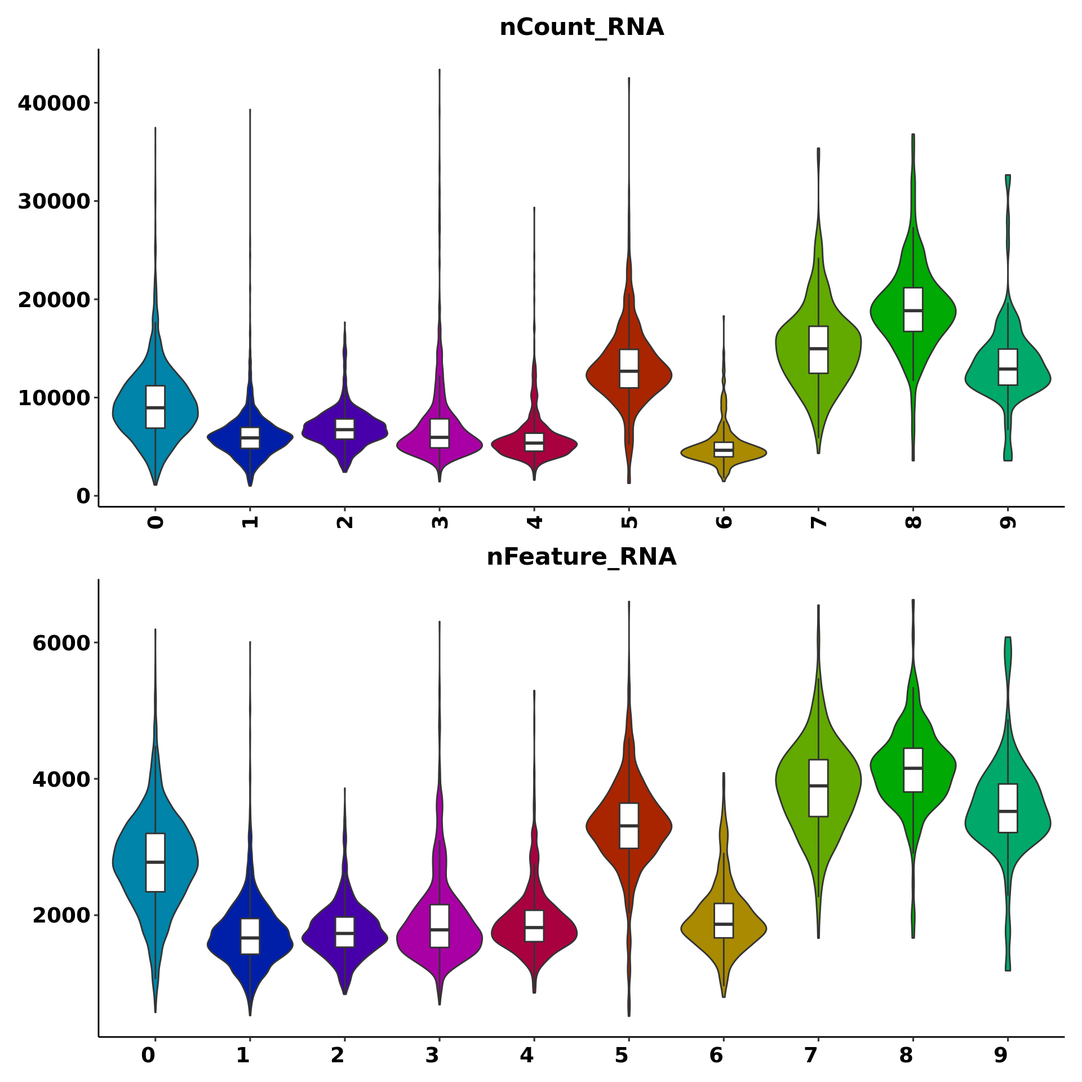
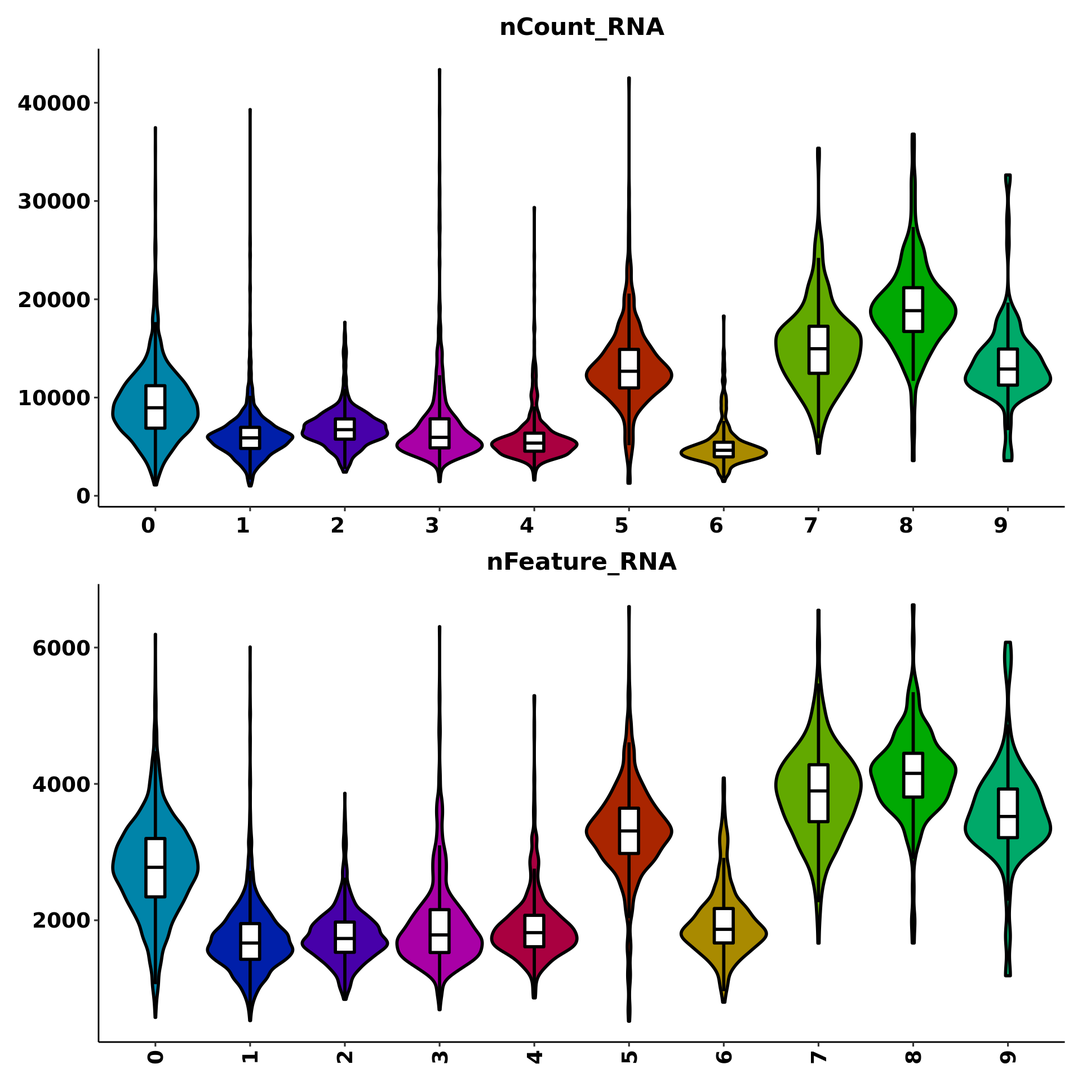
Additions to Violin plot chapter.

diff --git a/docs/bar-plots.html b/docs/bar-plots.html
@@ -69,7 +69,7 @@
 <h2>
 <span class="header-section-number">7.1</span> Basic usage<a class="anchor" aria-label="anchor" href="#basic-usage-5"><i class="fas fa-link"></i></a>
 </h2>
-<div class="sourceCode" id="cb76"><pre class="downlit sourceCode r">
+<div class="sourceCode" id="cb78"><pre class="downlit sourceCode r">
 <code class="sourceCode R"><span class="va">p1</span> <span class="op">&lt;-</span> <span class="fu">SCpubr</span><span class="fu">::</span><span class="fu"><a href="https://rdrr.io/pkg/SCpubr/man/do_BarPlot.html">do_BarPlot</a></span><span class="op">(</span>sample <span class="op">=</span> <span class="va">sample</span>, 
                          features <span class="op">=</span> <span class="st">"seurat_clusters"</span>, 
                          legend <span class="op">=</span> <span class="cn">F</span>, 
@@ -92,7 +92,7 @@ Figure 1.1: SCpubr Bar plots, plotting single variables
 <li>The feature provided need to have a clear and rather small number of groups. A good estimate on how to assess this is by querying the feature with <code>table</code>, as in <code>table(sample@meta.data[, feature])</code>.</li>
 </ul>
 <p>Focusing on the last point, this would happen if we were to choose a feature with a high number of unique values:</p>
-<div class="sourceCode" id="cb77"><pre class="downlit sourceCode r">
+<div class="sourceCode" id="cb79"><pre class="downlit sourceCode r">
 <code class="sourceCode R">
 <span class="va">p</span> <span class="op">&lt;-</span> <span class="fu">SCpubr</span><span class="fu">::</span><span class="fu"><a href="https://rdrr.io/pkg/SCpubr/man/do_BarPlot.html">do_BarPlot</a></span><span class="op">(</span>sample <span class="op">=</span> <span class="va">sample</span>, 
                         features <span class="op">=</span> <span class="st">"nCount_RNA"</span>, 
@@ -113,7 +113,7 @@ Figure 1.2: SCpubr Bar plots, choosing the wrong variable
 <span class="header-section-number">7.2</span> Grouping by a second variable<a class="anchor" aria-label="anchor" href="#grouping-by-a-second-variable"><i class="fas fa-link"></i></a>
 </h2>
 <p>Let’s expand on the previous example on the number of cells per cluster. What if we were interested not only on that, but we would like to profile <strong>how many cells from each cluster are present in each of the unique samples present in the Seurat object</strong>? For this, we need to provide <code><a href="https://rdrr.io/pkg/SCpubr/man/do_BarPlot.html">SCpubr::do_BarPlot()</a></code> with a second parameter, <code>group.by</code>, that tackles how we want the feature to be grouped:</p>
-<div class="sourceCode" id="cb78"><pre class="downlit sourceCode r">
+<div class="sourceCode" id="cb80"><pre class="downlit sourceCode r">
 <code class="sourceCode R"><span class="co"># We only have one value in orig.ident. Let's modify it so that it resembles a multi-sample Seurat object.</span>
 <span class="va">sample</span><span class="op">$</span><span class="va">modified_orig.ident</span> <span class="op">&lt;-</span> <span class="fu"><a href="https://rdrr.io/r/base/sample.html">sample</a></span><span class="op">(</span>x <span class="op">=</span> <span class="fu"><a href="https://rdrr.io/r/base/c.html">c</a></span><span class="op">(</span><span class="st">"Sample_A"</span>, <span class="st">"Sample_B"</span>, <span class="st">"Sample_C"</span><span class="op">)</span>, 
                                      size <span class="op">=</span> <span class="fu"><a href="https://rdrr.io/r/base/nrow.html">ncol</a></span><span class="op">(</span><span class="va">sample</span><span class="op">)</span>, 
@@ -149,7 +149,7 @@ Figure 1.3: SCpubr Bar plots, introducing a variable to group values by
 <code>group.by</code>: Secondary variable on which the bars generated by <code>feature</code> can be further subdivided.</li>
 </ul>
 <p>Another interesting parameter introduced in the last example is <code>position</code>. Position can be either <code>stack</code> or <code>fill</code>. The difference between them is that <code>position = "stack"</code> will yield the total number of cells for each of the unique values in <code>feature</code>, while <code>position = "fill"</code> will bring all bars to the same height and will split each bar into the proportions within each bar of the different groups (only one if <code>group.by = NULL</code> and as many groups if <code>group.by</code> is used). Therefore, it becomes highly recommended to use <code>position = "stack"</code> when <code>group.by</code> is not used and <code>position = "fill"</code> otherwise. This is also warned by the package. If you want to silence the warnings, use <code>verbose = FALSE</code>.</p>
-<div class="sourceCode" id="cb79"><pre class="downlit sourceCode r">
+<div class="sourceCode" id="cb81"><pre class="downlit sourceCode r">
 <code class="sourceCode R"><span class="co"># We are going to use the previously generated sample assignment.</span>
 
 <span class="va">p1</span> <span class="op">&lt;-</span> <span class="fu">SCpubr</span><span class="fu">::</span><span class="fu"><a href="https://rdrr.io/pkg/SCpubr/man/do_BarPlot.html">do_BarPlot</a></span><span class="op">(</span><span class="va">sample</span>, 
@@ -195,7 +195,7 @@ Figure 1.4: SCpubr Bar plots, difference between position
 <span class="header-section-number">7.3</span> Reordering columns based on a single entity<a class="anchor" aria-label="anchor" href="#reordering-columns-based-on-a-single-entity"><i class="fas fa-link"></i></a>
 </h2>
 <p>One advanced use of bar plots, but a very useful one is to reorder the columns based on a single entity in a descending order. This works only when <code>group.by</code> is set up and best when <code>position = "fill"</code>. For instance, imagine the scenario in which we are heavily interested in cluster 1, and want to reorder the columns based on it. This is achieved by providing <code>order.by</code> parameter to <code><a href="https://rdrr.io/pkg/SCpubr/man/do_BarPlot.html">SCpubr::do_BarPlot()</a></code>. The value in <code>order.by</code> has to be necessary one of the unique values in <code>group.by</code>. Therefore, as a best practice, one would want to generate the bar plots without using <code>order.by</code> and then decide. Let’s also, for the sake of this example, modify the proportions of cluster 1 so that it becomes really evident. This is how it looks:</p>
-<div class="sourceCode" id="cb80"><pre class="downlit sourceCode r">
+<div class="sourceCode" id="cb82"><pre class="downlit sourceCode r">
 <code class="sourceCode R"><span class="co"># Modify proportions. </span>
 <span class="va">sample</span><span class="op">$</span><span class="va">modified_seurat_clusters</span> <span class="op">&lt;-</span> <span class="fu"><a href="https://rdrr.io/r/base/character.html">as.character</a></span><span class="op">(</span><span class="va">sample</span><span class="op">$</span><span class="va">seurat_clusters</span><span class="op">)</span>
 <span class="va">sample</span><span class="op">$</span><span class="va">modified_seurat_clusters</span><span class="op">[</span><span class="va">sample</span><span class="op">$</span><span class="va">modified_orig.ident</span> <span class="op">==</span> <span class="st">"Sample_A"</span> <span class="op">&amp;</span> <span class="va">sample</span><span class="op">$</span><span class="va">modified_seurat_clusters</span> <span class="op"><a href="https://rdrr.io/r/base/match.html">%in%</a></span> <span class="fu"><a href="https://rdrr.io/r/base/c.html">c</a></span><span class="op">(</span><span class="st">"0"</span>, <span class="st">"2"</span>, <span class="st">"3"</span>, <span class="st">"4"</span>, <span class="st">"5"</span>, <span class="st">"6"</span>, <span class="st">"7"</span><span class="op">)</span><span class="op">]</span> <span class="op">&lt;-</span> <span class="st">"1"</span>
@@ -230,7 +230,7 @@ Figure 1.5: SCpubr Bar plots, reordering the colums using order.by
 <span class="header-section-number">7.4</span> Adding the exact values to the bars<a class="anchor" aria-label="anchor" href="#adding-the-exact-values-to-the-bars"><i class="fas fa-link"></i></a>
 </h2>
 <p>Sometimes, we are interested not only in displaying the bars but also reporting the exact number for each bar. This can be achieved by using <code>add.summary_labels = TRUE</code>:</p>
-<div class="sourceCode" id="cb81"><pre class="downlit sourceCode r">
+<div class="sourceCode" id="cb83"><pre class="downlit sourceCode r">
 <code class="sourceCode R">
 <span class="va">p1</span> <span class="op">&lt;-</span> <span class="fu">SCpubr</span><span class="fu">::</span><span class="fu"><a href="https://rdrr.io/pkg/SCpubr/man/do_BarPlot.html">do_BarPlot</a></span><span class="op">(</span>sample <span class="op">=</span> <span class="va">sample</span>, 
                          features <span class="op">=</span> <span class="st">"seurat_clusters"</span>, 
@@ -249,7 +249,7 @@ Figure 1.6: SCpubr, Adding labels to bars
 </p>
 </div>
 <p>The size of the labels can be adjusted by using <code>size.labels</code>. The default value is 3. This value changes the size quite drastically. Modification by low ammounts is reccomended.</p>
-<div class="sourceCode" id="cb82"><pre class="downlit sourceCode r">
+<div class="sourceCode" id="cb84"><pre class="downlit sourceCode r">
 <code class="sourceCode R">
 <span class="va">p1</span> <span class="op">&lt;-</span> <span class="fu">SCpubr</span><span class="fu">::</span><span class="fu"><a href="https://rdrr.io/pkg/SCpubr/man/do_BarPlot.html">do_BarPlot</a></span><span class="op">(</span>sample <span class="op">=</span> <span class="va">sample</span>, 
                          features <span class="op">=</span> <span class="st">"seurat_clusters"</span>, 
@@ -270,7 +270,7 @@ Figure 1.7: SCpubr, Modifying the size of the labels in the bars
 </p>
 </div>
 <p>When using in combination with <code>group.by</code>, it also adds the value on top of each bar:</p>
-<div class="sourceCode" id="cb83"><pre class="downlit sourceCode r">
+<div class="sourceCode" id="cb85"><pre class="downlit sourceCode r">
 <code class="sourceCode R"><span class="va">p1</span> <span class="op">&lt;-</span> <span class="fu">SCpubr</span><span class="fu">::</span><span class="fu"><a href="https://rdrr.io/pkg/SCpubr/man/do_BarPlot.html">do_BarPlot</a></span><span class="op">(</span>sample <span class="op">=</span> <span class="va">sample</span>, 
                          features <span class="op">=</span> <span class="st">"seurat_clusters"</span>,
                          group.by <span class="op">=</span> <span class="st">"modified_orig.ident"</span>,
@@ -290,7 +290,7 @@ Figure 1.8: SCpubr, Adding labels to bars when grouped by another variable
 </p>
 </div>
 <p>If we are also interested in adding labels to each of the bar sugroups, we can do so by using <code>add.subgroup_labels = TRUE</code>:</p>
-<div class="sourceCode" id="cb84"><pre class="downlit sourceCode r">
+<div class="sourceCode" id="cb86"><pre class="downlit sourceCode r">
 <code class="sourceCode R"><span class="va">p1</span> <span class="op">&lt;-</span> <span class="fu">SCpubr</span><span class="fu">::</span><span class="fu"><a href="https://rdrr.io/pkg/SCpubr/man/do_BarPlot.html">do_BarPlot</a></span><span class="op">(</span>sample <span class="op">=</span> <span class="va">sample</span>, 
                          features <span class="op">=</span> <span class="st">"seurat_clusters"</span>,
                          group.by <span class="op">=</span> <span class="st">"modified_orig.ident"</span>,
@@ -312,7 +312,7 @@ Figure 1.9: SCpubr, Adding labels to bars and subgroups when grouped by another 
 </p>
 </div>
 <p>As can be observed, this type of labelling is very situational and highly depends on the overall structure of the bars and whether it is feasible to plot that many labels. In order to ease this cluttering, one can pass <code>repel.subroup_labels = TRUE</code> to avoid overlapping of the group labels (the colored ones inside the bars).</p>
-<div class="sourceCode" id="cb85"><pre class="downlit sourceCode r">
+<div class="sourceCode" id="cb87"><pre class="downlit sourceCode r">
 <code class="sourceCode R"><span class="va">p1</span> <span class="op">&lt;-</span> <span class="fu">SCpubr</span><span class="fu">::</span><span class="fu"><a href="https://rdrr.io/pkg/SCpubr/man/do_BarPlot.html">do_BarPlot</a></span><span class="op">(</span>sample <span class="op">=</span> <span class="va">sample</span>, 
                          features <span class="op">=</span> <span class="st">"seurat_clusters"</span>,
                          group.by <span class="op">=</span> <span class="st">"modified_orig.ident"</span>,
@@ -336,7 +336,7 @@ Figure 1.10: SCpubr, Relocating group labels
 </p>
 </div>
 <p>If we also want the summary labels (the ones in black at the top of each bar) to relocate, we can use <code>repel.summary_labels = TRUE</code>. This combination of parameters were designed to grant the user freedom to keep either of the two groups of labels centered and to make either group appear or disappear (as each bar plot will have a different scenario and sometimes it might be a viable option).</p>
-<div class="sourceCode" id="cb86"><pre class="downlit sourceCode r">
+<div class="sourceCode" id="cb88"><pre class="downlit sourceCode r">
 <code class="sourceCode R"><span class="va">p1</span> <span class="op">&lt;-</span> <span class="fu">SCpubr</span><span class="fu">::</span><span class="fu"><a href="https://rdrr.io/pkg/SCpubr/man/do_BarPlot.html">do_BarPlot</a></span><span class="op">(</span>sample <span class="op">=</span> <span class="va">sample</span>, 
                          features <span class="op">=</span> <span class="st">"seurat_clusters"</span>,
                          group.by <span class="op">=</span> <span class="st">"modified_orig.ident"</span>,
@@ -368,7 +368,7 @@ Figure 1.11: SCpubr, Adding relocating all bars
 <span class="header-section-number">7.5</span> Adding custom color scales<a class="anchor" aria-label="anchor" href="#adding-custom-color-scales"><i class="fas fa-link"></i></a>
 </h2>
 <p>If necessary, the colors of the plots can be easily changed using the <code>colors.use</code> parameter, which requires a <strong>named vector</strong> containing the HEX codes of the colors to show and the names of the unique values that are being used as color groups. Here is one example:</p>
-<div class="sourceCode" id="cb87"><pre class="downlit sourceCode r">
+<div class="sourceCode" id="cb89"><pre class="downlit sourceCode r">
 <code class="sourceCode R"><span class="co"># Create a color scale for the unique values in seurat clusters.</span>
 <span class="va">colors</span> <span class="op">&lt;-</span> <span class="fu"><a href="https://rdrr.io/r/base/c.html">c</a></span><span class="op">(</span><span class="st">"0"</span> <span class="op">=</span> <span class="st">"#001219"</span>,
             <span class="st">"1"</span> <span class="op">=</span> <span class="st">"#005f73"</span>,
@@ -443,7 +443,7 @@ Figure 1.12: SCpubr, modifying colors
 <!-- Moved the footer outside of the body to make it span all page width. --><footer class="bg-primary text-light mt-5"><div class="container"><div class="row">
 
   <div class="col-12 col-md-6 mt-3">
-    <p class="text-center">Written by <strong>Enrique Blanco Carmona</strong> on 08 March, 2022.</p>
+    <p class="text-center">Written by <strong>Enrique Blanco Carmona</strong> on 22 March, 2022.</p>
   </div>
 
   <div class="col-12 col-md-6 mt-3">

diff --git a/docs/dot-plots.html b/docs/dot-plots.html
@@ -69,7 +69,7 @@
 <h2>
 <span class="header-section-number">6.1</span> Basic usage<a class="anchor" aria-label="anchor" href="#basic-usage-4"><i class="fas fa-link"></i></a>
 </h2>
-<div class="sourceCode" id="cb69"><pre class="downlit sourceCode r">
+<div class="sourceCode" id="cb71"><pre class="downlit sourceCode r">
 <code class="sourceCode R"><span class="va">p1</span> <span class="op">&lt;-</span> <span class="fu">Seurat</span><span class="fu">::</span><span class="fu"><a href="https://satijalab.org/seurat/reference/DotPlot.html">DotPlot</a></span><span class="op">(</span><span class="va">sample</span>, 
                       features <span class="op">=</span> <span class="st">"CD14"</span><span class="op">)</span>
 <span class="va">p2</span> <span class="op">&lt;-</span> <span class="fu">Seurat</span><span class="fu">::</span><span class="fu"><a href="https://satijalab.org/seurat/reference/DotPlot.html">DotPlot</a></span><span class="op">(</span><span class="va">sample</span>, 
@@ -82,7 +82,7 @@ Figure 1.1: Seurat DotPlot
 </p>
 </div>
 <p>As can be seen, if we try to plot other type of variables, the resulting plot will not contain a color scale. <code><a href="https://rdrr.io/pkg/SCpubr/man/do_DimPlot.html">SCpubr::do_DimPlot()</a></code> focuses on enhancing the overall appearance of the plots. Implementation using other types of features is not currently supported. This is how it looks using <code><a href="https://rdrr.io/pkg/SCpubr/man/do_DimPlot.html">SCpubr::do_DimPlot()</a></code>:</p>
-<div class="sourceCode" id="cb70"><pre class="downlit sourceCode r">
+<div class="sourceCode" id="cb72"><pre class="downlit sourceCode r">
 <code class="sourceCode R"><span class="va">p1</span> <span class="op">&lt;-</span> <span class="fu">SCpubr</span><span class="fu">::</span><span class="fu"><a href="https://rdrr.io/pkg/SCpubr/man/do_DotPlot.html">do_DotPlot</a></span><span class="op">(</span>sample <span class="op">=</span> <span class="va">sample</span>, 
                          features <span class="op">=</span> <span class="st">"CD14"</span><span class="op">)</span>
 <span class="va">p2</span> <span class="op">&lt;-</span> <span class="fu">SCpubr</span><span class="fu">::</span><span class="fu"><a href="https://rdrr.io/pkg/SCpubr/man/do_DotPlot.html">do_DotPlot</a></span><span class="op">(</span>sample <span class="op">=</span> <span class="va">sample</span>, 
@@ -100,7 +100,7 @@ Figure 1.2: SCpubr DotPlot
 <span class="header-section-number">6.2</span> Querying multiple features at once<a class="anchor" aria-label="anchor" href="#querying-multiple-features-at-once"><i class="fas fa-link"></i></a>
 </h2>
 <p>The true power of this data visualization relies on querying multiple genes at once. Let’s query the ones described in this <a href="https://satijalab.org/seurat/articles/pbmc3k_tutorial.html#assigning-cell-type-identity-to-clusters-1">Seurat vignette</a>:</p>
-<div class="sourceCode" id="cb71"><pre class="downlit sourceCode r">
+<div class="sourceCode" id="cb73"><pre class="downlit sourceCode r">
 <code class="sourceCode R"><span class="va">genes</span> <span class="op">&lt;-</span> <span class="fu"><a href="https://rdrr.io/r/base/c.html">c</a></span><span class="op">(</span><span class="st">"IL7R"</span>, <span class="st">"CCR7"</span>, <span class="st">"CD14"</span>, <span class="st">"LYZ"</span>, 
            <span class="st">"S100A4"</span>, <span class="st">"MS4A1"</span>, <span class="st">"CD8A"</span>, <span class="st">"FCGR3A"</span>, 
            <span class="st">"MS4A7"</span>, <span class="st">"GNLY"</span>, <span class="st">"NKG7"</span>, <span class="st">"FCER1A"</span>, 
@@ -115,7 +115,7 @@ Figure 1.3: SCpubr DotPlot using multiple genes
 </p>
 </div>
 <p>Here, we can clearly distinguish which clusters are highly enriched in which given genes. This proves to be a very interesting way to query for cluster identities. It is highly dependent, though, on the accuracy of the selected genes for the queried dataset. If we actually provide the list of genes as a named list, we can facet the plot in the different list of genes provided:</p>
-<div class="sourceCode" id="cb72"><pre class="downlit sourceCode r">
+<div class="sourceCode" id="cb74"><pre class="downlit sourceCode r">
 <code class="sourceCode R"><span class="va">genes</span> <span class="op">&lt;-</span> <span class="fu"><a href="https://rdrr.io/r/base/list.html">list</a></span><span class="op">(</span><span class="st">"Naive CD4+ T"</span> <span class="op">=</span> <span class="fu"><a href="https://rdrr.io/r/base/c.html">c</a></span><span class="op">(</span><span class="st">"IL7R"</span>, <span class="st">"CCR7"</span><span class="op">)</span>,
               <span class="st">"CD14+ Mono"</span> <span class="op">=</span> <span class="fu"><a href="https://rdrr.io/r/base/c.html">c</a></span><span class="op">(</span><span class="st">"CD14"</span>, <span class="st">"LYZ"</span><span class="op">)</span>,
               <span class="st">"Memory CD4+"</span> <span class="op">=</span> <span class="fu"><a href="https://rdrr.io/r/base/c.html">c</a></span><span class="op">(</span><span class="st">"S100A4"</span><span class="op">)</span>,
@@ -140,7 +140,7 @@ Figure 1.4: SCpubr DotPlot using multiple genes
 <span class="header-section-number">6.3</span> Clustering the identities<a class="anchor" aria-label="anchor" href="#clustering-the-identities"><i class="fas fa-link"></i></a>
 </h2>
 <p>One really cool feature from <code><a href="https://satijalab.org/seurat/reference/DotPlot.html">Seurat::DotPlot()</a></code> is that it lets you cluster the identities in the Y axis depending on how similar they are between them across the values on the X axis. This is achieved by using <code>cluster.idents = TRUE</code>, parameter also implemented in <code><a href="https://rdrr.io/pkg/SCpubr/man/do_DotPlot.html">SCpubr::do_DotPlot()</a></code>:</p>
-<div class="sourceCode" id="cb73"><pre class="downlit sourceCode r">
+<div class="sourceCode" id="cb75"><pre class="downlit sourceCode r">
 <code class="sourceCode R"><span class="va">genes</span> <span class="op">&lt;-</span> <span class="fu"><a href="https://rdrr.io/r/base/list.html">list</a></span><span class="op">(</span><span class="st">"Naive CD4+ T"</span> <span class="op">=</span> <span class="fu"><a href="https://rdrr.io/r/base/c.html">c</a></span><span class="op">(</span><span class="st">"IL7R"</span>, <span class="st">"CCR7"</span><span class="op">)</span>,
               <span class="st">"CD14+ Mono"</span> <span class="op">=</span> <span class="fu"><a href="https://rdrr.io/r/base/c.html">c</a></span><span class="op">(</span><span class="st">"CD14"</span>, <span class="st">"LYZ"</span><span class="op">)</span>,
               <span class="st">"Memory CD4+"</span> <span class="op">=</span> <span class="fu"><a href="https://rdrr.io/r/base/c.html">c</a></span><span class="op">(</span><span class="st">"S100A4"</span><span class="op">)</span>,
@@ -170,7 +170,7 @@ Figure 1.5: SCpubr DotPlot using multiple genes and clustering the identities
 <span class="header-section-number">6.4</span> Inverting the axes<a class="anchor" aria-label="anchor" href="#inverting-the-axes"><i class="fas fa-link"></i></a>
 </h2>
 <p>In <code><a href="https://rdrr.io/pkg/SCpubr/man/do_DotPlot.html">SCpubr::do_DotPlot()</a></code>, we can also invert the axes, so that the groups are in the X axis and the genes in the Y axis. This is achieved by using <code>flip = TRUE</code>. Note, however, that this does not work when using a named list of genes as input, as it completely distort the way facets are computed. Given this, this combination of parameters is currently blocked by <code>SCpubr</code>.</p>
-<div class="sourceCode" id="cb74"><pre class="downlit sourceCode r">
+<div class="sourceCode" id="cb76"><pre class="downlit sourceCode r">
 <code class="sourceCode R"><span class="va">genes</span> <span class="op">&lt;-</span> <span class="fu"><a href="https://rdrr.io/r/base/c.html">c</a></span><span class="op">(</span><span class="st">"IL7R"</span>, <span class="st">"CCR7"</span>, <span class="st">"CD14"</span>, <span class="st">"LYZ"</span>, 
            <span class="st">"S100A4"</span>, <span class="st">"MS4A1"</span>, <span class="st">"CD8A"</span>, <span class="st">"FCGR3A"</span>, 
            <span class="st">"MS4A7"</span>, <span class="st">"GNLY"</span>, <span class="st">"NKG7"</span>, <span class="st">"FCER1A"</span>, 
@@ -197,7 +197,7 @@ Figure 1.6: SCpubr DotPlot using multiple genes and clustering the identities fl
 <span class="header-section-number">6.5</span> Modifying default colors<a class="anchor" aria-label="anchor" href="#modifying-default-colors-2"><i class="fas fa-link"></i></a>
 </h2>
 <p>To modify the default colors, a vector of two colors has to be provided to <code>colors.use</code>. The two colors will form a gradient.</p>
-<div class="sourceCode" id="cb75"><pre class="downlit sourceCode r">
+<div class="sourceCode" id="cb77"><pre class="downlit sourceCode r">
 <code class="sourceCode R"><span class="va">genes</span> <span class="op">&lt;-</span> <span class="fu"><a href="https://rdrr.io/r/base/c.html">c</a></span><span class="op">(</span><span class="st">"IL7R"</span>, <span class="st">"CCR7"</span>, <span class="st">"CD14"</span>, <span class="st">"LYZ"</span>, 
            <span class="st">"S100A4"</span>, <span class="st">"MS4A1"</span>, <span class="st">"CD8A"</span>, <span class="st">"FCGR3A"</span>, 
            <span class="st">"MS4A7"</span>, <span class="st">"GNLY"</span>, <span class="st">"NKG7"</span>, <span class="st">"FCER1A"</span>, 
@@ -253,7 +253,7 @@ Figure 1.7: SCpubr, modifying default colors in a Dot plot
 <!-- Moved the footer outside of the body to make it span all page width. --><footer class="bg-primary text-light mt-5"><div class="container"><div class="row">
 
   <div class="col-12 col-md-6 mt-3">
-    <p class="text-center">Written by <strong>Enrique Blanco Carmona</strong> on 08 March, 2022.</p>
+    <p class="text-center">Written by <strong>Enrique Blanco Carmona</strong> on 22 March, 2022.</p>
   </div>
 
   <div class="col-12 col-md-6 mt-3">

diff --git a/docs/violin-plots.html b/docs/violin-plots.html
@@ -173,12 +173,51 @@ Figure 1.8: SCpubr’s violin plot with multiple features.
 </p>
 </div>
 </div>
-<div id="modifying-default-colors-1" class="section level2" number="5.3">
+<div id="modifying-aesthetics" class="section level2" number="5.3">
 <h2>
-<span class="header-section-number">5.3</span> Modifying default colors<a class="anchor" aria-label="anchor" href="#modifying-default-colors-1"><i class="fas fa-link"></i></a>
+<span class="header-section-number">5.3</span> Modifying aesthetics<a class="anchor" aria-label="anchor" href="#modifying-aesthetics"><i class="fas fa-link"></i></a>
+</h2>
+<p>Sometimes we might want to modify the overall look of the violin plots. For instance, the line width of both the violin shape and the box plot can be modified with <code>line_width</code> parameter, which defaults to 1.</p>
+<div class="sourceCode" id="cb68"><pre class="downlit sourceCode r">
+<code class="sourceCode R"><span class="va">p1</span> <span class="op">&lt;-</span> <span class="fu">SCpubr</span><span class="fu">::</span><span class="fu"><a href="https://rdrr.io/pkg/SCpubr/man/do_VlnPlot.html">do_VlnPlot</a></span><span class="op">(</span>sample <span class="op">=</span> <span class="va">sample</span>,
+                         features <span class="op">=</span> <span class="st">"nCount_RNA"</span><span class="op">)</span>
+
+<span class="va">p2</span> <span class="op">&lt;-</span> <span class="fu">SCpubr</span><span class="fu">::</span><span class="fu"><a href="https://rdrr.io/pkg/SCpubr/man/do_VlnPlot.html">do_VlnPlot</a></span><span class="op">(</span>sample <span class="op">=</span> <span class="va">sample</span>,
+                         features <span class="op">=</span> <span class="st">"nCount_RNA"</span>,
+                         line_width <span class="op">=</span> <span class="fl">2</span><span class="op">)</span>
+
+<span class="va">p</span> <span class="op">&lt;-</span> <span class="va">p1</span> <span class="op">/</span> <span class="va">p2</span>
+<span class="va">p</span></code></pre></div>
+<div class="figure" style="text-align: center">
+<span style="display:block;" id="fig:unnamed-chunk-10"></span>
+<img src="07-ViolinPlots_files/figure-html/unnamed-chunk-10-1.png" alt="SCpubr's violin plot with increased line width" width="100%" height="100%"><p class="caption">
+Figure 1.9: SCpubr’s violin plot with increased line width
+</p>
+</div>
+<p>Also, the width of the box plots can be modified with <code>boxplot_width</code> parameter, which defaults to 0.2. Be aware that this parameter scales the width of the boxplot. This is, if a value of 1 is provided, the box plot will take as much space as the violin shape. It is recommended to deviate from 0.2 by a small amount.</p>
+<div class="sourceCode" id="cb69"><pre class="downlit sourceCode r">
+<code class="sourceCode R"><span class="va">p1</span> <span class="op">&lt;-</span> <span class="fu">SCpubr</span><span class="fu">::</span><span class="fu"><a href="https://rdrr.io/pkg/SCpubr/man/do_VlnPlot.html">do_VlnPlot</a></span><span class="op">(</span>sample <span class="op">=</span> <span class="va">sample</span>,
+                         features <span class="op">=</span> <span class="st">"nCount_RNA"</span><span class="op">)</span>
+
+<span class="va">p2</span> <span class="op">&lt;-</span> <span class="fu">SCpubr</span><span class="fu">::</span><span class="fu"><a href="https://rdrr.io/pkg/SCpubr/man/do_VlnPlot.html">do_VlnPlot</a></span><span class="op">(</span>sample <span class="op">=</span> <span class="va">sample</span>,
+                         features <span class="op">=</span> <span class="st">"nCount_RNA"</span>,
+                         boxplot_width <span class="op">=</span> <span class="fl">0.1</span><span class="op">)</span>
+
+<span class="va">p</span> <span class="op">&lt;-</span> <span class="va">p1</span> <span class="op">/</span> <span class="va">p2</span>
+<span class="va">p</span></code></pre></div>
+<div class="figure" style="text-align: center">
+<span style="display:block;" id="fig:unnamed-chunk-11"></span>
+<img src="07-ViolinPlots_files/figure-html/unnamed-chunk-11-1.png" alt="SCpubr's violin plot with decreased box plot width" width="100%" height="100%"><p class="caption">
+Figure 1.10: SCpubr’s violin plot with decreased box plot width
+</p>
+</div>
+</div>
+<div id="modifying-default-colors-1" class="section level2" number="5.4">
+<h2>
+<span class="header-section-number">5.4</span> Modifying default colors<a class="anchor" aria-label="anchor" href="#modifying-default-colors-1"><i class="fas fa-link"></i></a>
 </h2>
 <p>Same as with other categorical representations, we can modify the default color palette by providing a custom one to <code>colors.use</code>. This has to be a named vector of HEX values with the names of the groups as names of the values:</p>
-<div class="sourceCode" id="cb68"><pre class="downlit sourceCode r">
+<div class="sourceCode" id="cb70"><pre class="downlit sourceCode r">
 <code class="sourceCode R"><span class="co"># Create a color scale for the unique values in seurat clusters.</span>
 <span class="va">colors</span> <span class="op">&lt;-</span> <span class="fu"><a href="https://rdrr.io/r/base/c.html">c</a></span><span class="op">(</span><span class="st">"0"</span> <span class="op">=</span> <span class="st">"#001219"</span>,
             <span class="st">"1"</span> <span class="op">=</span> <span class="st">"#005f73"</span>,
@@ -196,9 +235,9 @@ Figure 1.8: SCpubr’s violin plot with multiple features.
                         colors.use <span class="op">=</span> <span class="va">colors</span><span class="op">)</span>
 <span class="va">p</span></code></pre></div>
 <div class="figure" style="text-align: center">
-<span style="display:block;" id="fig:unnamed-chunk-10"></span>
-<img src="07-ViolinPlots_files/figure-html/unnamed-chunk-10-1.png" alt="SCpubr, modifying default colors in a Violin plot" width="100%" height="100%"><p class="caption">
-Figure 1.9: SCpubr, modifying default colors in a Violin plot
+<span style="display:block;" id="fig:unnamed-chunk-12"></span>
+<img src="07-ViolinPlots_files/figure-html/unnamed-chunk-12-1.png" alt="SCpubr, modifying default colors in a Violin plot" width="100%" height="100%"><p class="caption">
+Figure 1.11: SCpubr, modifying default colors in a Violin plot
 </p>
 </div>
 
@@ -216,7 +255,8 @@ Figure 1.9: SCpubr, modifying default colors in a Violin plot
 <li><a class="nav-link" href="#violin-plots"><span class="header-section-number">5</span> Violin plots</a></li>
 <li><a class="nav-link" href="#basic-usage-3"><span class="header-section-number">5.1</span> Basic usage</a></li>
 <li><a class="nav-link" href="#violin-plots-as-a-means-of-qc"><span class="header-section-number">5.2</span> Violin plots as a means of QC</a></li>
-<li><a class="nav-link" href="#modifying-default-colors-1"><span class="header-section-number">5.3</span> Modifying default colors</a></li>
+<li><a class="nav-link" href="#modifying-aesthetics"><span class="header-section-number">5.3</span> Modifying aesthetics</a></li>
+<li><a class="nav-link" href="#modifying-default-colors-1"><span class="header-section-number">5.4</span> Modifying default colors</a></li>
 </ul>
 
       <div class="book-extra">
@@ -240,7 +280,7 @@ Figure 1.9: SCpubr, modifying default colors in a Violin plot
 <!-- Moved the footer outside of the body to make it span all page width. --><footer class="bg-primary text-light mt-5"><div class="container"><div class="row">
 
   <div class="col-12 col-md-6 mt-3">
-    <p class="text-center">Written by <strong>Enrique Blanco Carmona</strong> on 08 March, 2022.</p>
+    <p class="text-center">Written by <strong>Enrique Blanco Carmona</strong> on 22 March, 2022.</p>
   </div>
 
   <div class="col-12 col-md-6 mt-3">

diff --git a/docs/troubleshooting.html b/docs/troubleshooting.html
@@ -68,7 +68,7 @@
 <h2>Correcly defining the number of columns and rows in the legend<a class="anchor" aria-label="anchor" href="#correcly-defining-the-number-of-columns-and-rows-in-the-legend"><i class="fas fa-link"></i></a>
 </h2>
 <p>Sometimes, when using <code>legend.ncol</code> or <code>legend.nrow</code> parameter across the functions in <code>SCpubr</code> that have them implemented, the output number of columns and rows will not reflect the number provided. This stands particularly true when using <code>legend.ncol</code>. This happens, apparently, due to some internal checks from <code>ggplot2</code> and, as of today, a solution to this has not been found. However, due to this reason, <code>legend.nrow</code> has been introduced, in an attempt to some of this cases by defining the total number of rows instead. However, normally these cases normally arise when the legend is being forced to have a very uneven number of items per row/column. Therefore, it is suggested to always generated <strong>evenly distributed legends</strong>. Here is a representative example:</p>
-<div class="sourceCode" id="cb88"><pre class="downlit sourceCode r">
+<div class="sourceCode" id="cb90"><pre class="downlit sourceCode r">
 <code class="sourceCode R"><span class="va">p1</span> <span class="op">&lt;-</span> <span class="fu">SCpubr</span><span class="fu">::</span><span class="fu"><a href="https://rdrr.io/pkg/SCpubr/man/do_DimPlot.html">do_DimPlot</a></span><span class="op">(</span><span class="va">sample</span>, legend.ncol <span class="op">=</span> <span class="fl">5</span><span class="op">)</span>
 <span class="va">p2</span> <span class="op">&lt;-</span> <span class="fu">SCpubr</span><span class="fu">::</span><span class="fu"><a href="https://rdrr.io/pkg/SCpubr/man/do_DimPlot.html">do_DimPlot</a></span><span class="op">(</span><span class="va">sample</span>, legend.ncol <span class="op">=</span> <span class="fl">8</span><span class="op">)</span>
 <span class="va">p3</span> <span class="op">&lt;-</span> <span class="fu">SCpubr</span><span class="fu">::</span><span class="fu"><a href="https://rdrr.io/pkg/SCpubr/man/do_DimPlot.html">do_DimPlot</a></span><span class="op">(</span><span class="va">sample</span>, legend.ncol <span class="op">=</span> <span class="fl">10</span><span class="op">)</span>
@@ -114,7 +114,7 @@
 <!-- Moved the footer outside of the body to make it span all page width. --><footer class="bg-primary text-light mt-5"><div class="container"><div class="row">
 
   <div class="col-12 col-md-6 mt-3">
-    <p class="text-center">Written by <strong>Enrique Blanco Carmona</strong> on 08 March, 2022.</p>
+    <p class="text-center">Written by <strong>Enrique Blanco Carmona</strong> on 22 March, 2022.</p>
   </div>
 
   <div class="col-12 col-md-6 mt-3">

diff --git a/docs/dim-plots.html b/docs/dim-plots.html
@@ -584,7 +584,7 @@ Figure 1.26: SCpubr DimPlot using split.by with a changed color
 <!-- Moved the footer outside of the body to make it span all page width. --><footer class="bg-primary text-light mt-5"><div class="container"><div class="row">
 
   <div class="col-12 col-md-6 mt-3">
-    <p class="text-center">Written by <strong>Enrique Blanco Carmona</strong> on 08 March, 2022.</p>
+    <p class="text-center">Written by <strong>Enrique Blanco Carmona</strong> on 22 March, 2022.</p>
   </div>
 
   <div class="col-12 col-md-6 mt-3">

diff --git a/docs/bee-swarm-plots.html b/docs/bee-swarm-plots.html
@@ -327,7 +327,7 @@ Figure 1.7: SCpubr Nebulosa plot modifying viridis color maps.
 <!-- Moved the footer outside of the body to make it span all page width. --><footer class="bg-primary text-light mt-5"><div class="container"><div class="row">
 
   <div class="col-12 col-md-6 mt-3">
-    <p class="text-center">Written by <strong>Enrique Blanco Carmona</strong> on 08 March, 2022.</p>
+    <p class="text-center">Written by <strong>Enrique Blanco Carmona</strong> on 22 March, 2022.</p>
   </div>
 
   <div class="col-12 col-md-6 mt-3">

diff --git a/docs/nebulosa-plots.html b/docs/nebulosa-plots.html
@@ -231,7 +231,7 @@ Figure 1.8: SCpubr Nebulosa plot modifying viridis color maps.
 <!-- Moved the footer outside of the body to make it span all page width. --><footer class="bg-primary text-light mt-5"><div class="container"><div class="row">
 
   <div class="col-12 col-md-6 mt-3">
-    <p class="text-center">Written by <strong>Enrique Blanco Carmona</strong> on 08 March, 2022.</p>
+    <p class="text-center">Written by <strong>Enrique Blanco Carmona</strong> on 22 March, 2022.</p>
   </div>
 
   <div class="col-12 col-md-6 mt-3">

diff --git a/docs/feature-plots.html b/docs/feature-plots.html
@@ -352,7 +352,7 @@ Figure 1.14: SCpubr FeaturePlot modifying viridis color maps.
 <!-- Moved the footer outside of the body to make it span all page width. --><footer class="bg-primary text-light mt-5"><div class="container"><div class="row">
 
   <div class="col-12 col-md-6 mt-3">
-    <p class="text-center">Written by <strong>Enrique Blanco Carmona</strong> on 08 March, 2022.</p>
+    <p class="text-center">Written by <strong>Enrique Blanco Carmona</strong> on 22 March, 2022.</p>
   </div>
 
   <div class="col-12 col-md-6 mt-3">

diff --git a/docs/citation.html b/docs/citation.html
@@ -112,7 +112,7 @@ doi:10.1101/2022.02.28.482303.</code></pre>
 <!-- Moved the footer outside of the body to make it span all page width. --><footer class="bg-primary text-light mt-5"><div class="container"><div class="row">
 
   <div class="col-12 col-md-6 mt-3">
-    <p class="text-center">Written by <strong>Enrique Blanco Carmona</strong> on 08 March, 2022.</p>
+    <p class="text-center">Written by <strong>Enrique Blanco Carmona</strong> on 22 March, 2022.</p>
   </div>
 
   <div class="col-12 col-md-6 mt-3">

diff --git a/docs/dataset-used.html b/docs/dataset-used.html
@@ -121,7 +121,7 @@
 <!-- Moved the footer outside of the body to make it span all page width. --><footer class="bg-primary text-light mt-5"><div class="container"><div class="row">
 
   <div class="col-12 col-md-6 mt-3">
-    <p class="text-center">Written by <strong>Enrique Blanco Carmona</strong> on 08 March, 2022.</p>
+    <p class="text-center">Written by <strong>Enrique Blanco Carmona</strong> on 22 March, 2022.</p>
   </div>
 
   <div class="col-12 col-md-6 mt-3">

diff --git a/docs/installation-guide.html b/docs/installation-guide.html
@@ -162,7 +162,7 @@
 <!-- Moved the footer outside of the body to make it span all page width. --><footer class="bg-primary text-light mt-5"><div class="container"><div class="row">
 
   <div class="col-12 col-md-6 mt-3">
-    <p class="text-center">Written by <strong>Enrique Blanco Carmona</strong> on 08 March, 2022.</p>
+    <p class="text-center">Written by <strong>Enrique Blanco Carmona</strong> on 22 March, 2022.</p>
   </div>
 
   <div class="col-12 col-md-6 mt-3">

diff --git a/docs/404.html b/docs/404.html
@@ -81,7 +81,7 @@
 <!-- Moved the footer outside of the body to make it span all page width. --><footer class="bg-primary text-light mt-5"><div class="container"><div class="row">
 
   <div class="col-12 col-md-6 mt-3">
-    <p class="text-center">Written by <strong>Enrique Blanco Carmona</strong> on 08 March, 2022.</p>
+    <p class="text-center">Written by <strong>Enrique Blanco Carmona</strong> on 22 March, 2022.</p>
   </div>
 
   <div class="col-12 col-md-6 mt-3">
